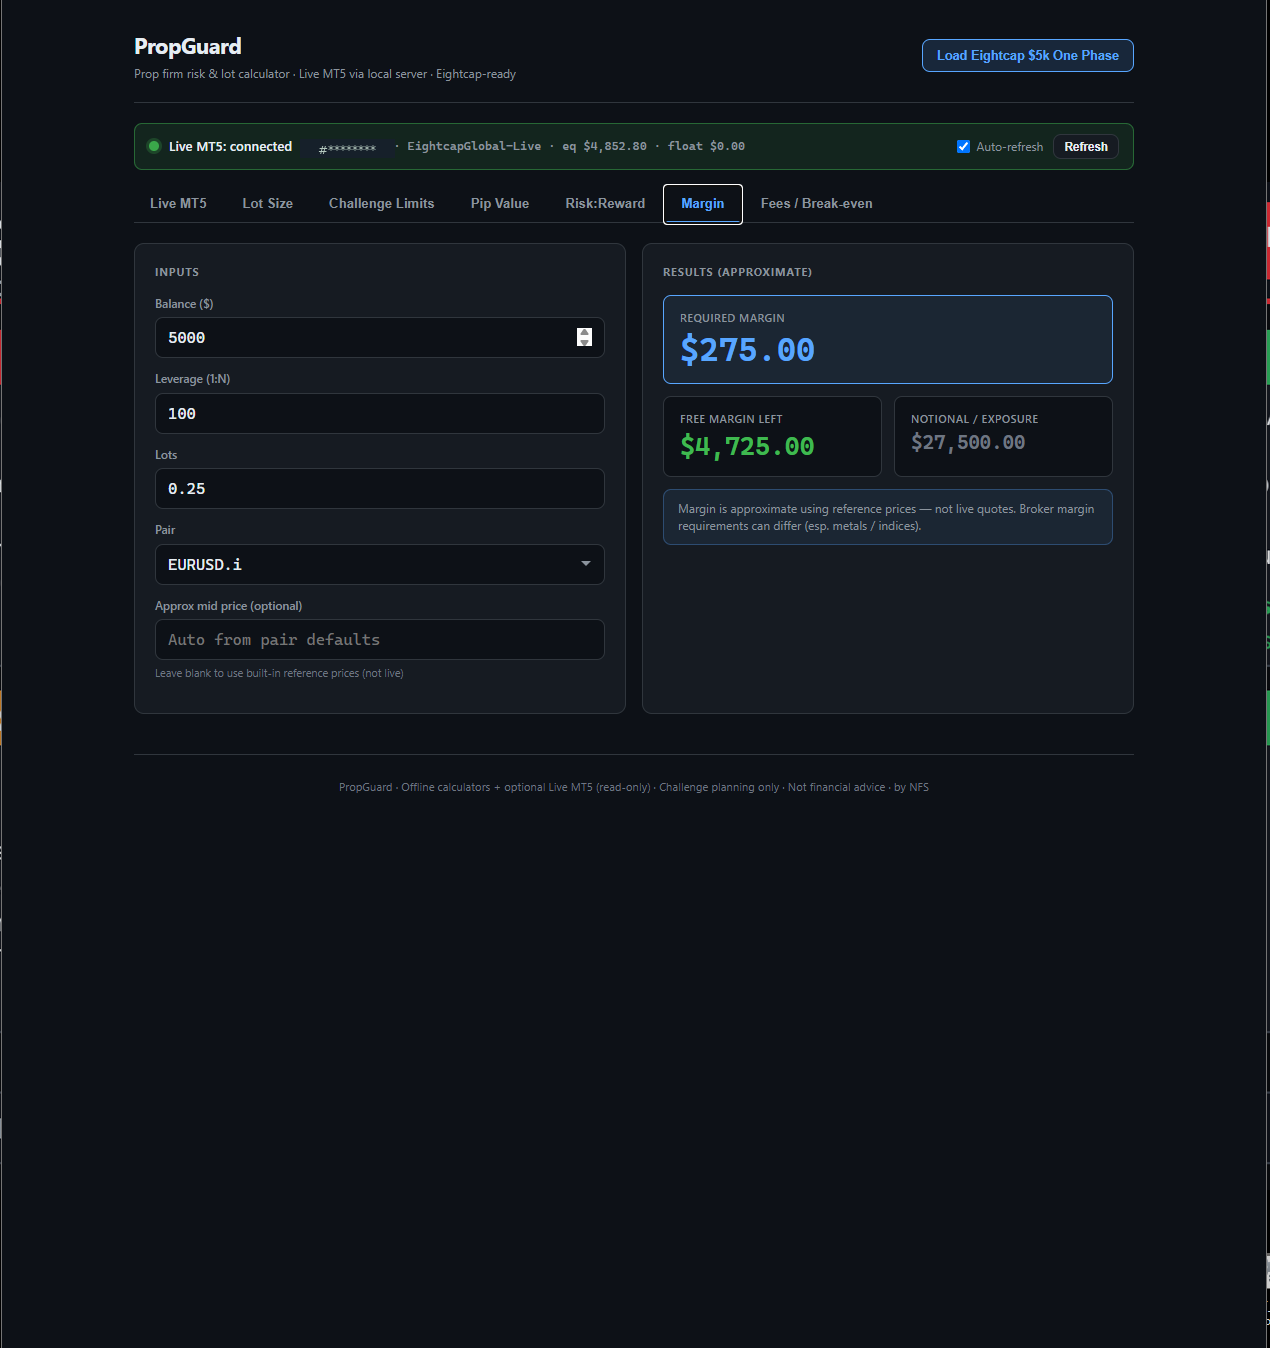
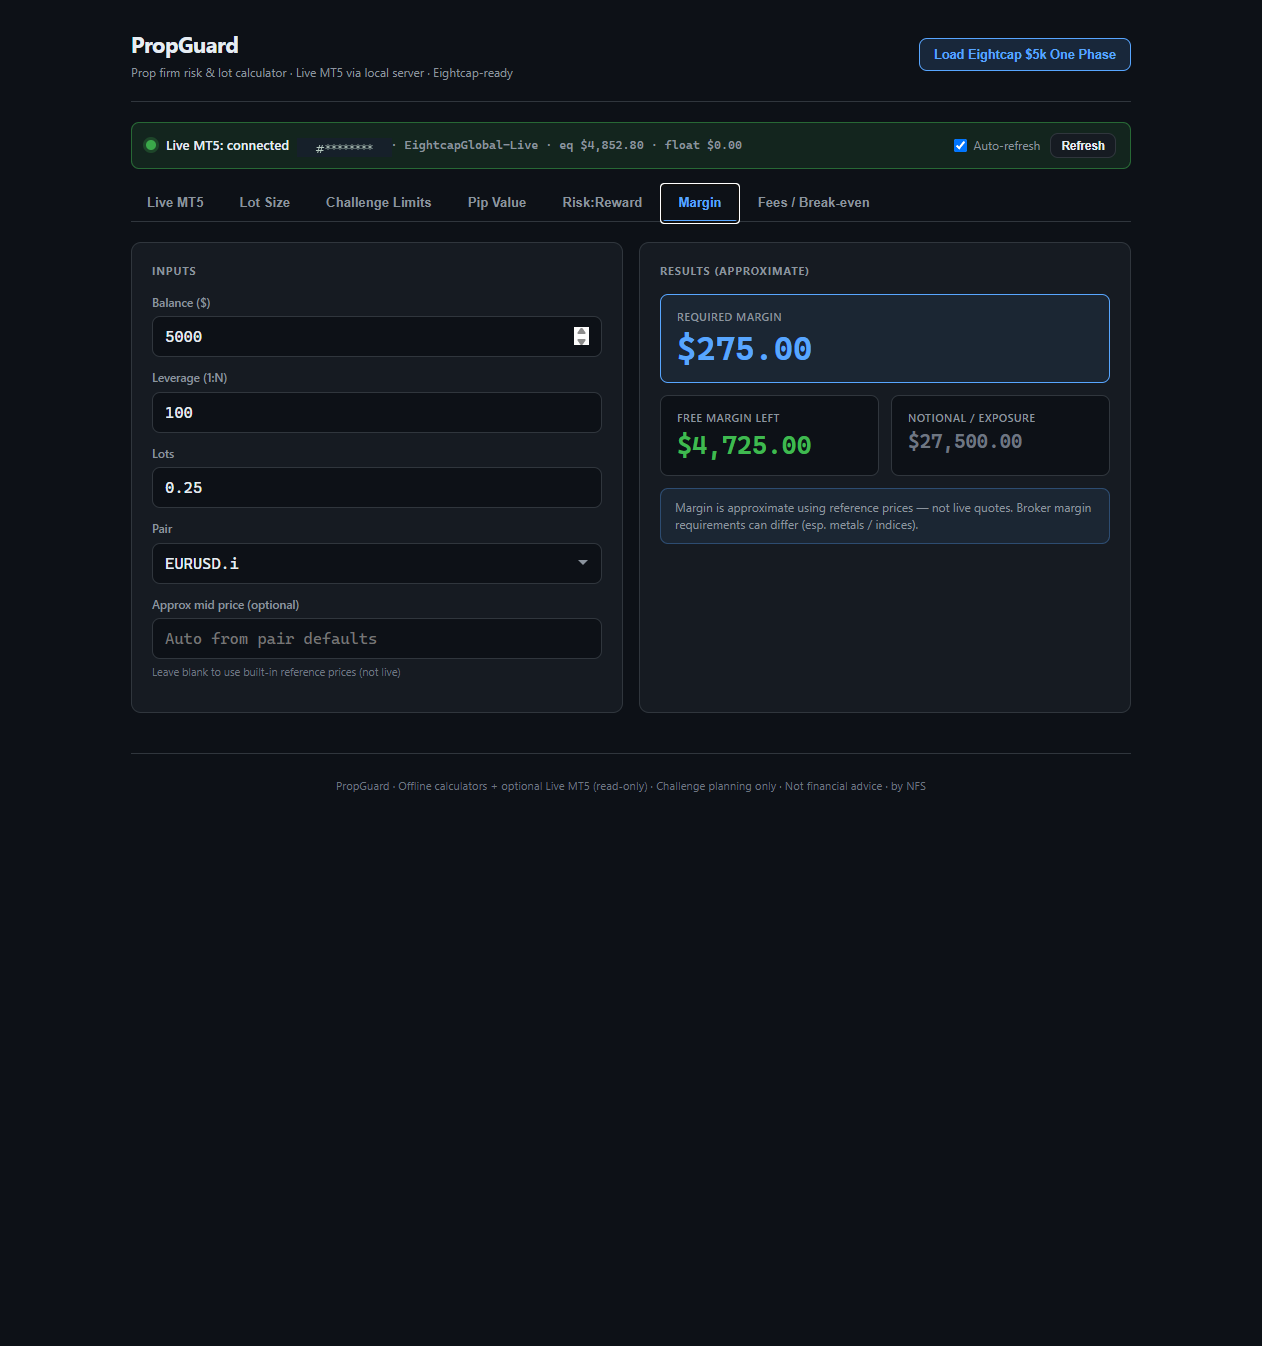
Crop shots to app UI only and add screenshot lightbox.
Remove Windows title bar and side bleed from gallery PNGs; tighten shot card CSS and open full-size overlay on click.

diff --git a/index.html b/index.html
@@ -55,13 +55,37 @@
       margin: 0; border-radius: 16px; border: 1px solid var(--line);
       background: #0f172a; overflow: hidden;
     }
+    .shot-media {
+      display: block; overflow: hidden; border-radius: 16px 16px 0 0;
+      background: #0b0f14; cursor: pointer;
+    }
     .shot img {
       display: block; width: 100%; height: auto;
+      object-fit: contain; object-position: top center;
+      border: 0; outline: 0;
+      transition: filter 0.15s ease;
     }
+    .shot-media:hover img, .shot img:hover { filter: brightness(1.08); }
     .shot figcaption {
       color: var(--muted); font-size: 0.85rem; padding: 10px 12px 12px; margin: 0;
       border-top: 1px solid var(--line);
     }
+    #lightbox {
+      display: none; position: fixed; inset: 0; z-index: 9999;
+      background: rgba(0, 0, 0, 0.88); align-items: center; justify-content: center;
+      padding: 24px; cursor: zoom-out;
+    }
+    #lightbox.open { display: flex !important; }
+    #lightbox img {
+      max-width: min(1100px, 94vw); max-height: 90vh; width: auto; height: auto;
+      object-fit: contain; border-radius: 12px; box-shadow: 0 12px 48px rgba(0,0,0,0.55);
+      cursor: default; background: #0b0f14;
+    }
+    #lightbox-close {
+      position: absolute; top: 14px; right: 18px; border: 0; background: transparent;
+      color: #e8eef7; font-size: 28px; line-height: 1; cursor: pointer; padding: 8px 12px;
+    }
+    #lightbox-close:hover { color: var(--cyan); }
     details { border-top: 1px solid var(--line); padding: 14px 0; }
     details:first-of-type { border-top: 0; }
     summary { cursor: pointer; font-weight: 650; }
@@ -118,29 +142,41 @@
       <p class="lead">Real app UI with account numbers scrubbed. Live MT5 room and lot sizing first; more tools below.</p>
       <div class="shots">
         <figure class="shot">
-          <img src="shots/live-mt5.png" alt="PropGuard Live MT5 tab showing remaining daily drawdown room" width="640" height="690" loading="lazy" />
+          <div class="shot-media">
+            <img class="gallery-shot" src="shots/live-mt5.png" alt="PropGuard Live MT5 tab showing remaining daily drawdown room" width="640" height="690" loading="lazy"  />
+          </div>
           <figcaption>Live MT5 - remaining daily room and equity floor</figcaption>
         </figure>
         <figure class="shot">
-          <img src="shots/lot-size.png" alt="PropGuard Lot Size tab with recommended lots capped by daily room" width="640" height="687" loading="lazy" />
+          <div class="shot-media">
+            <img class="gallery-shot" src="shots/lot-size.png" alt="PropGuard Lot Size tab with recommended lots capped by daily room" width="640" height="687" loading="lazy"  />
+          </div>
           <figcaption>Lot Size - risk % to lots, capped by daily room</figcaption>
         </figure>
       </div>
       <div class="shots-row2">
         <figure class="shot">
-          <img src="shots/challenge-limits.png" alt="PropGuard Challenge Limits tab" width="320" height="346" loading="lazy" />
+          <div class="shot-media">
+            <img class="gallery-shot" src="shots/challenge-limits.png" alt="PropGuard Challenge Limits tab" width="320" height="346" loading="lazy"  />
+          </div>
           <figcaption>Challenge Limits</figcaption>
         </figure>
         <figure class="shot">
-          <img src="shots/pip-value.png" alt="PropGuard Pip Value tab" width="320" height="346" loading="lazy" />
+          <div class="shot-media">
+            <img class="gallery-shot" src="shots/pip-value.png" alt="PropGuard Pip Value tab" width="320" height="346" loading="lazy"  />
+          </div>
           <figcaption>Pip Value</figcaption>
         </figure>
         <figure class="shot">
-          <img src="shots/risk-reward.png" alt="PropGuard Risk Reward tab" width="320" height="340" loading="lazy" />
+          <div class="shot-media">
+            <img class="gallery-shot" src="shots/risk-reward.png" alt="PropGuard Risk Reward tab" width="320" height="340" loading="lazy"  />
+          </div>
           <figcaption>Risk:Reward</figcaption>
         </figure>
         <figure class="shot">
-          <img src="shots/margin.png" alt="PropGuard Margin tab" width="320" height="337" loading="lazy" />
+          <div class="shot-media">
+            <img class="gallery-shot" src="shots/margin.png" alt="PropGuard Margin tab" width="320" height="337" loading="lazy"  />
+          </div>
           <figcaption>Margin</figcaption>
         </figure>
       </div>
@@ -194,5 +230,49 @@
       (c) PropGuard | Windows desktop | Support: nfstride1@gmail.com
     </footer>
   </div>
+
+  <div id="lightbox" role="dialog" aria-modal="true" aria-label="Screenshot preview" hidden>
+    <button type="button" id="lightbox-close" aria-label="Close">&times;</button>
+    <img id="lightbox-img" alt="" />
+  </div>
+  <script>
+  (function () {
+    var lb = document.getElementById("lightbox");
+    var lbImg = document.getElementById("lightbox-img");
+    var closeBtn = document.getElementById("lightbox-close");
+    function openLb(src, alt) {
+      lbImg.src = src;
+      lbImg.alt = alt || "";
+      lb.hidden = false;
+      lb.classList.add("open");
+      document.body.style.overflow = "hidden";
+    }
+    function closeLb() {
+      lb.classList.remove("open");
+      lb.hidden = true;
+      lbImg.removeAttribute("src");
+      document.body.style.overflow = "";
+    }
+    document.querySelectorAll(".shot-media").forEach(function (el) {
+      el.addEventListener("click", function (e) {
+        e.preventDefault();
+        var img = el.querySelector("img");
+        if (!img) return;
+        openLb(img.currentSrc || img.src, img.alt);
+      });
+    });
+    closeBtn.addEventListener("click", function (e) {
+      e.stopPropagation();
+      closeLb();
+    });
+    lb.addEventListener("click", function (e) {
+      if (e.target === lb) closeLb();
+    });
+    lbImg.addEventListener("click", function (e) { e.stopPropagation(); });
+    document.addEventListener("keydown", function (e) {
+      if (e.key === "Escape" && lb.classList.contains("open")) closeLb();
+    });
+  })();
+  </script>
 </body>
 </html>
